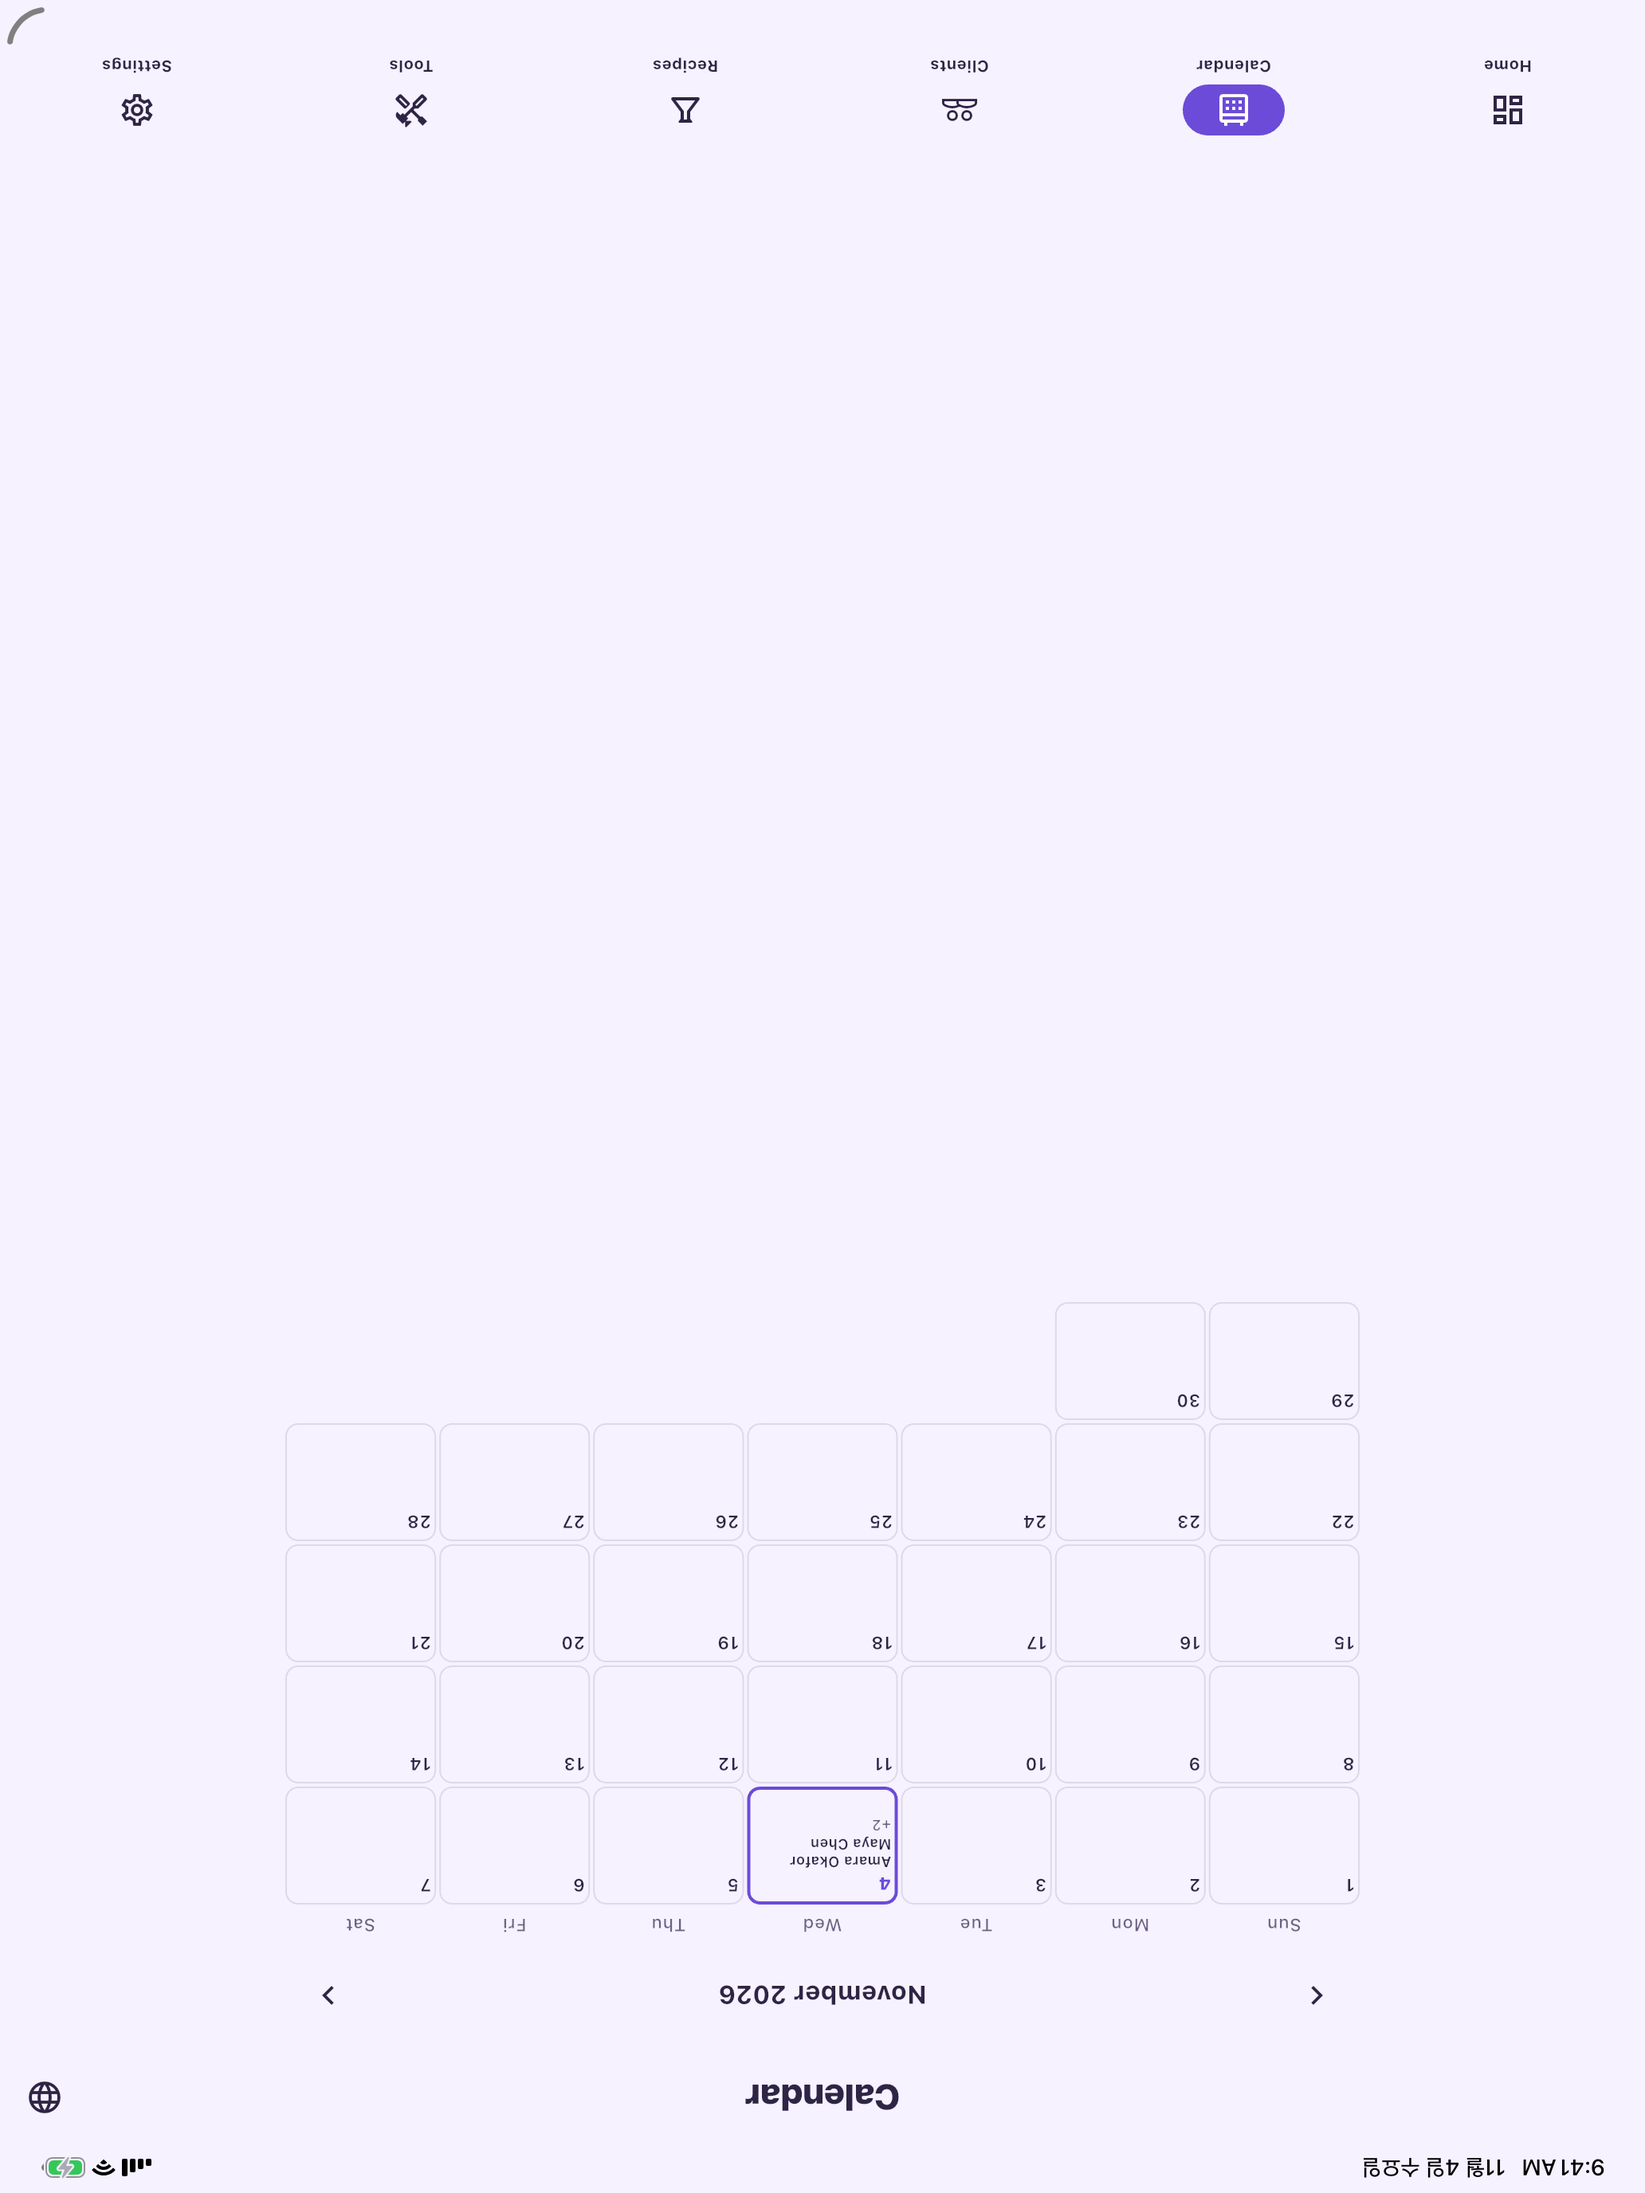
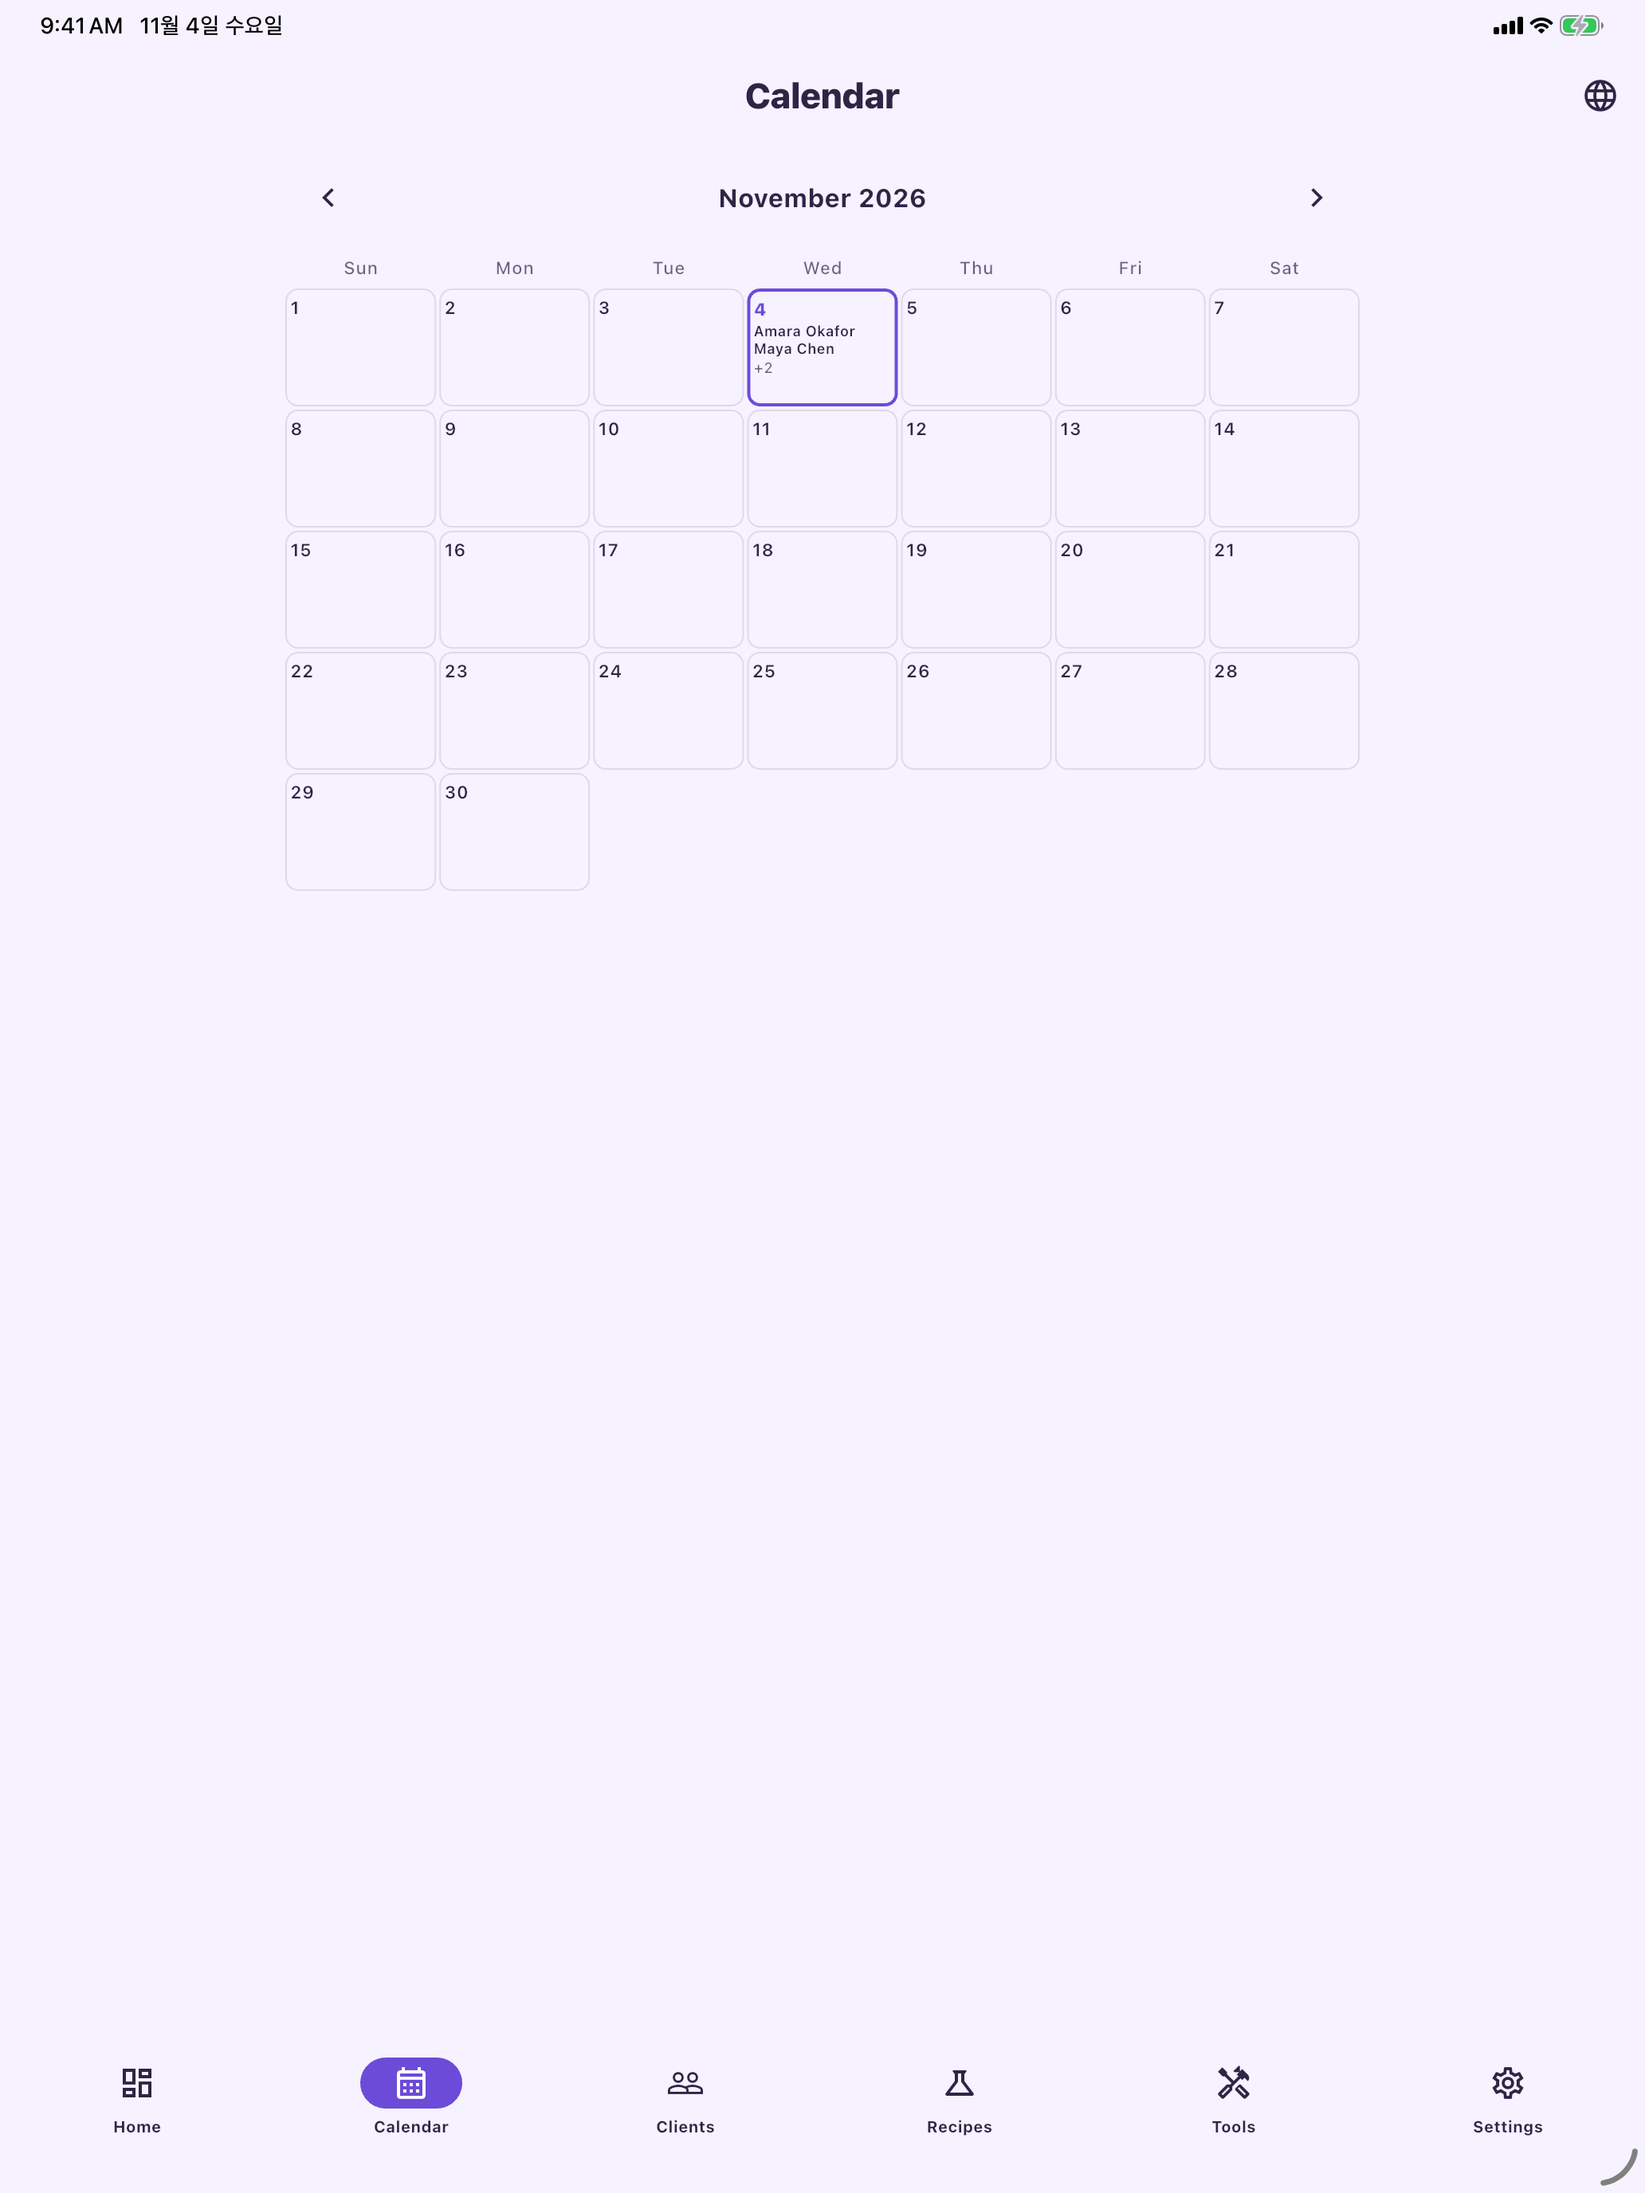
fix: iPad 스크린샷 5장의 180도 뒤집힘을 바로잡는다

diff --git a/스크린샷_업로드_지시서.md b/스크린샷_업로드_지시서.md
@@ -164,8 +164,21 @@ ASC가 보여주는 칸 이름이 위와 조금 다를 수 있습니다(예: "6.
 
 - 15장 전부 해상도가 Apple 요구치와 **정확히 일치**
 - 15장 전부 **알파 채널 없음** (흰색 위에 평탄화)
-- UI가 모두 **영어** — 기본 언어가 English (U.S.)이므로
+- **15장을 한 장에 모아 눈으로 확인** — 방향, 잘림, 빈 화면
+- 앱 UI가 모두 **영어** — 기본 언어가 English (U.S.)이므로
+  (iPad 3장은 시뮬레이터 OS의 상태 표시줄 날짜만 한국어입니다. 앱 화면이 아니라 거부 사유가 아닙니다.)
 - **DEBUG 배너 없음** — 릴리스처럼 보이게 빌드 플래그로 껐습니다
 - 홈 화면의 **"백업한 지 30일이 넘었습니다" 빨간 경고 없음** — 앱에 문제가 있는 것처럼 보이지 않도록 정상 상태를 심었습니다
+
+### 2026-11-05 수정 — iPad 5장 방향
+
+처음 올린 iPad 5장은 **180도 뒤집혀 있었습니다.** 시뮬레이터가 거꾸로 선 상태로 캡처됐는데,
+해상도와 알파 검사는 그대로 통과해서 자동 검증으로는 걸러지지 않았습니다. 그림을 보지 않은 탓입니다.
+
+저장소의 `ipad-13/` 5장은 **바로 선 방향으로 교체했습니다.** 픽셀을 180도 돌리기만 해서
+해상도·화질·알파는 그대로입니다. 지금 저장소에서 받는 파일은 올바른 방향입니다.
+
+> **검증에 "눈으로 보기"가 빠지면 이런 것이 통과합니다.** 다음 업데이트 때도 올리기 전에
+> 15장을 한 장에 모아 한 번 보십시오. 자동 검사가 잡는 것은 숫자뿐입니다.
 
 이 공개 저장소는 **제출용 임시 저장소**입니다. 심사가 끝나면 삭제합니다. 앱 소스 저장소는 비공개입니다.
